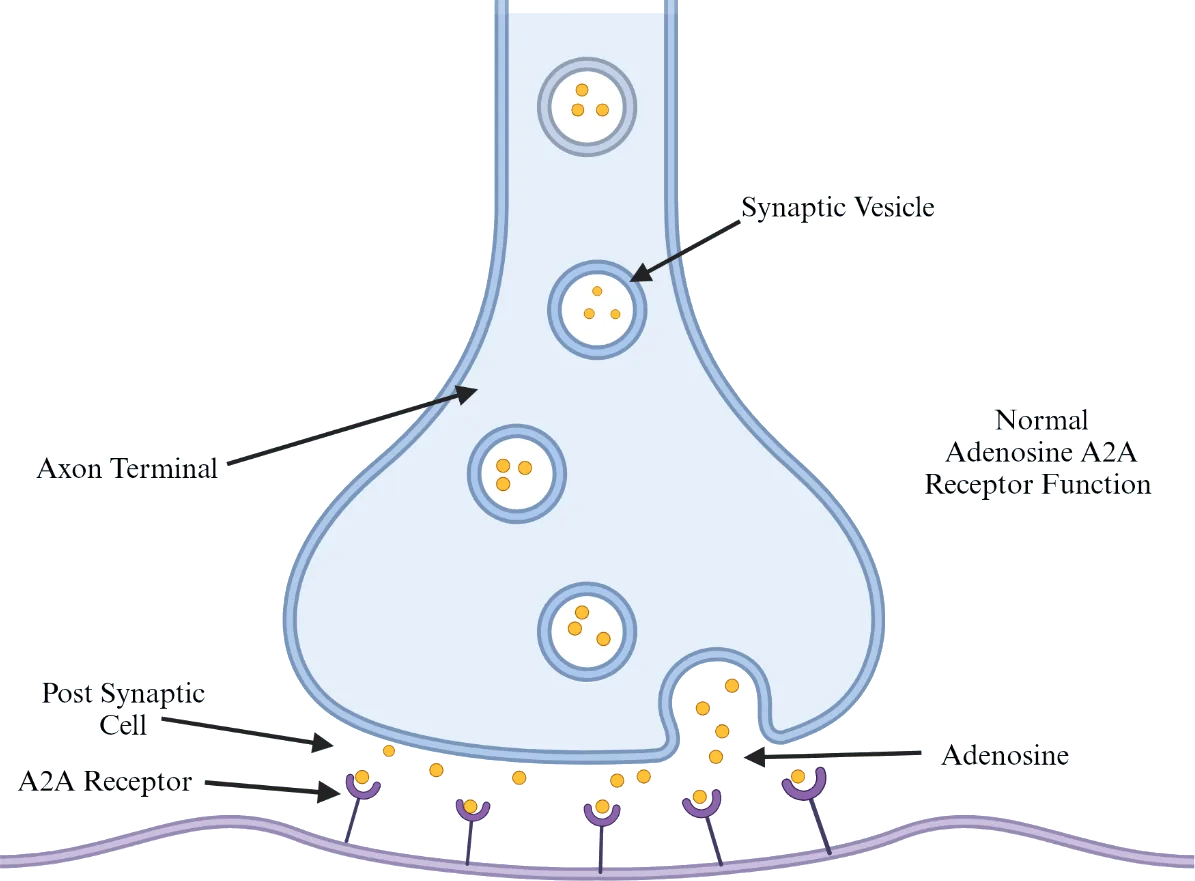
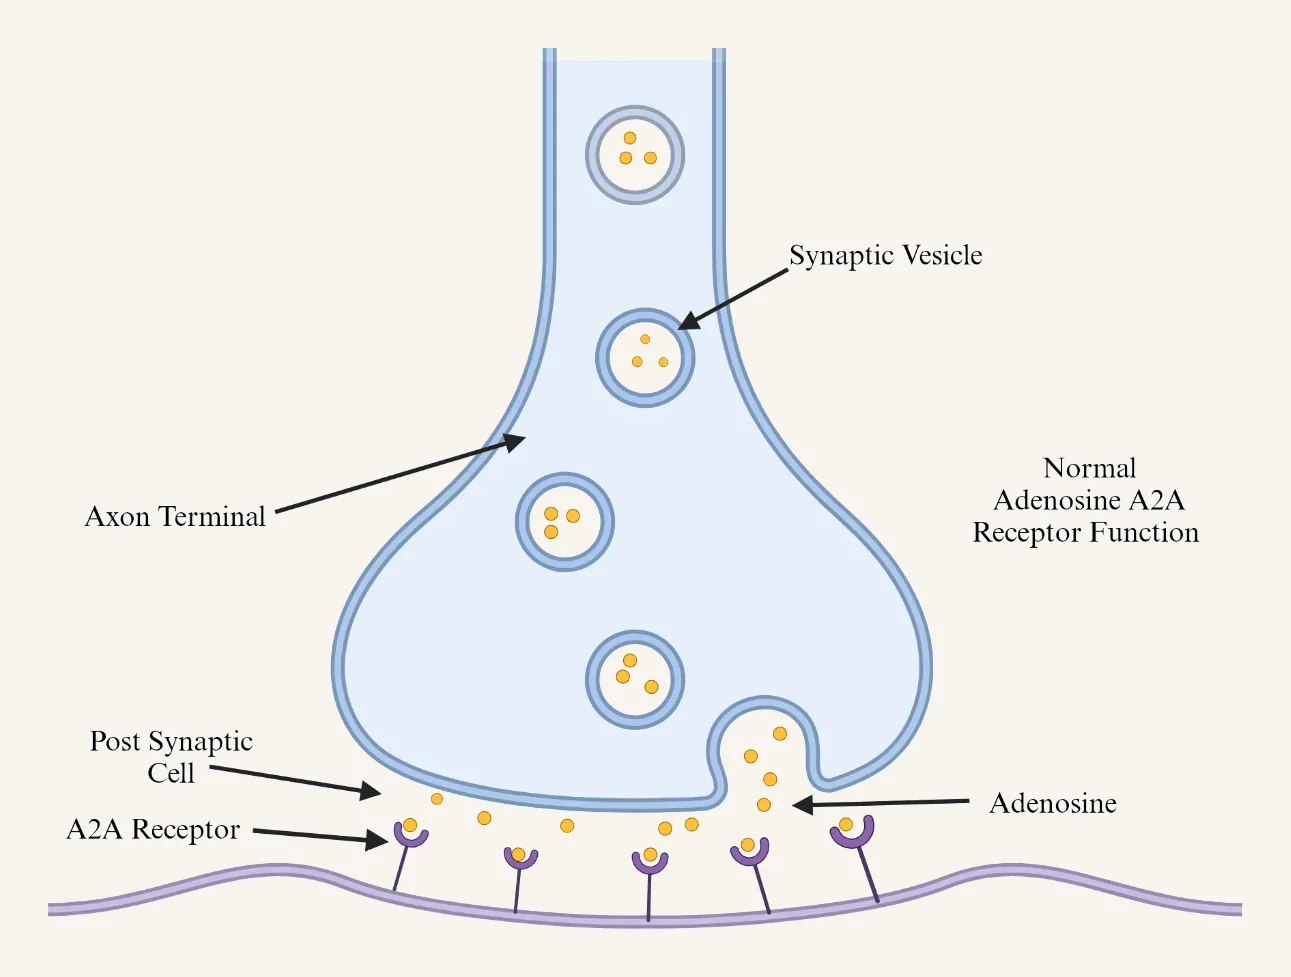
Bake a paper backing into the cut-out diagrams so their labels survive dark mode
The clean/ images are scans of printed diagrams: black labels, thin black
leader lines, engraved hatching, pale fills. Flood-filling the white
background out left them transparent, which reads well on a light page and is
unreadable on a dark one - black ink on #17140f is black on black. The same
happens in the light theme on a phone browser that force-darkens the page.

Fixed in the pixels rather than in CSS, and that is the point. Force-dark
engines darken background colours and deliberately leave image pixels alone,
so a CSS plate under the artwork gets darkened right back out; tokens.css
already records that `color-scheme: only light` does not reliably stop them.
Pixels are the one surface they will not touch.

scripts/paper-backing.mjs flattens each cut-out onto paper and extends a
proportional margin around it. The colour is exactly the light theme's --bg,
so in the light theme the figures still blend into the page as designed -
nothing about the light view changes - while in the dark theme they read as a
printed figure laid on the page.

One wrinkle: the flood-fill only reaches the background from outside, so white
regions it could not enter - the cells inside a spider web's frame, the
interior of an engraved brain - stayed pure white and sat as a bright patch on
the paper. The script remaps what is still near-white to the same tone. The
threshold is high enough to leave the pale blue/pink/orange diagram fills
alone.
[…]

Changed region(s): [[0.0, 0.0, 1.0, 1.0], [0.7431, 0.4597, 0.9598, 0.5823], [0.031, 0.521, 0.2167, 0.5516]]

diff --git a/src/styles/components.css b/src/styles/components.css
@@ -315,8 +315,12 @@ html[dir='rtl'] .side-chev.open { transform: rotate(90deg); }
 .img-block { margin: var(--space-5) 0; text-align: center; }
 .img-block img { border-radius: var(--radius); border: 1px solid var(--border); max-width: 100%; width: auto; max-height: 460px; margin: 0 auto; object-fit: contain; background: var(--bg-elev-2); }
 .img-block.wide img { max-height: 520px; }
-/* Cleaned images (transparent bg): blend into the page, no card frame. */
-.img-block.transparent img { border: none; background: transparent; padding: var(--space-3); max-height: 480px; }
+/* Cleaned images: no card frame, so in the light theme they still blend into
+   the page. They are no longer transparent — each carries its own paper backing
+   and margin in the pixels (scripts/paper-backing.mjs), which is what keeps
+   their black labels readable in the dark theme and under a force-dark browser.
+   So: no background and no padding here, or it would double the margin. */
+.img-block.transparent img { border: none; padding: 0; max-height: 480px; background: var(--figure-paper); }
 .img-legend { list-style: none; display: flex; flex-wrap: wrap; gap: 8px; justify-content: center; padding: 0; margin: var(--space-2) auto 0; max-width: 640px; }
 .img-legend li { margin: 0; }
 .img-legend-term { display: inline-block; font-size: var(--fs-xs); font-weight: 600; color: var(--text-soft); background: var(--bg-elev-2); border: 1px solid var(--border); border-radius: 999px; padding: 3px 11px; }
@@ -401,7 +405,8 @@ html[dir='rtl'] .side-chev.open { transform: rotate(90deg); }
 .spider-panel { display: flex; flex-direction: column; gap: 8px; margin: 0; }
 .spider-tag { align-self: flex-start; font-weight: 700; font-size: var(--fs-sm); padding: 3px 12px; border-radius: 999px; background: var(--bg-elev-2); color: var(--text); }
 .spider-tag.drug { background: var(--danger); color: #fff; }
-.spider-box { width: 100%; aspect-ratio: 4 / 3; background: #fff; border: 1px solid var(--border-strong); border-radius: var(--radius-sm); display: grid; place-items: center; padding: 10px; box-shadow: var(--shadow-sm); }
+/* Sits flush against the panel image, so it has to be the same paper. */
+.spider-box { width: 100%; aspect-ratio: 4 / 3; background: var(--figure-paper); border: 1px solid var(--border-strong); border-radius: var(--radius-sm); display: grid; place-items: center; padding: 10px; box-shadow: var(--shadow-sm); }
 .spider-box img { max-width: 100%; max-height: 100%; width: auto; object-fit: contain; }
 .spider-buttons { display: flex; flex-wrap: wrap; gap: 8px; margin-top: var(--space-4); justify-content: center; }
 
@@ -411,7 +416,7 @@ html[dir='rtl'] .side-chev.open { transform: rotate(90deg); }
 .net-legend li { display: inline-flex; align-items: center; gap: 6px; margin: 0; }
 .net-swatch { width: 14px; height: 14px; border-radius: 4px; display: inline-block; }
 .net-name { font-size: var(--fs-sm); font-weight: 600; }
-.net-crop-img { display: block; width: 100%; height: auto; max-height: 300px; object-fit: contain; margin: 0 auto; }
+.net-crop-img { display: block; width: 100%; height: auto; max-height: 300px; object-fit: contain; margin: 0 auto; border-radius: var(--radius-sm); }
 
 /* ============================================================
    Stolen Focus — interactive figures

diff --git a/src/data/imageDims.js b/src/data/imageDims.js
@@ -10,20 +10,20 @@ export const imageDims = {
   './images/anatomical/rem-vs-nrem.webp': [1200, 675],
   './images/characters/johann-hari.webp': [500, 625],
   './images/characters/matthew-walker.webp': [500, 500],
-  './images/clean/adenosine-1.webp': [1195, 881],
-  './images/clean/adenosine-2.webp': [1182, 859],
-  './images/clean/alzheimers.webp': [559, 369],
-  './images/clean/amygdala.webp': [1018, 1007],
-  './images/clean/beta-amyloid.webp': [1204, 935],
-  './images/clean/brain-regions.webp': [1389, 874],
-  './images/clean/glymphatic.webp': [1600, 864],
-  './images/clean/hippocampus-cortex.webp': [1600, 824],
-  './images/clean/light-pathway.webp': [967, 1363],
-  './images/clean/memory-chart.webp': [759, 918],
-  './images/clean/memory-consolidation.webp': [685, 373],
-  './images/clean/nk-cells-1.webp': [364, 388],
-  './images/clean/orexin.webp': [1600, 1454],
-  './images/clean/prefrontal.webp': [1454, 1160],
+  './images/clean/adenosine-1.webp': [1291, 977],
+  './images/clean/adenosine-2.webp': [1276, 953],
+  './images/clean/alzheimers.webp': [603, 413],
+  './images/clean/amygdala.webp': [1100, 1089],
+  './images/clean/beta-amyloid.webp': [1300, 1031],
+  './images/clean/brain-regions.webp': [1501, 986],
+  './images/clean/glymphatic.webp': [1728, 992],
+  './images/clean/hippocampus-cortex.webp': [1728, 952],
+  './images/clean/light-pathway.webp': [1077, 1473],
+  './images/clean/memory-chart.webp': [833, 992],
+  './images/clean/memory-consolidation.webp': [739, 427],
+  './images/clean/nk-cells-1.webp': [396, 420],
+  './images/clean/orexin.webp': [1728, 1582],
+  './images/clean/prefrontal.webp': [1570, 1276],
   './images/graceland-jungle-room.jpg': [800, 588],
   './images/provincetown.jpg': [800, 450],
 }

diff --git a/src/styles/tokens.css b/src/styles/tokens.css
@@ -37,6 +37,16 @@
   /* Brand (the club logo colour) — constant across themes */
   --brand: #a5855b;
   --brand-ink: #ffffff;
+
+  /* The paper the scanned figures are printed on. Constant across themes on
+     purpose: those diagrams are black ink on white, so their backing has to
+     stay light or the labels vanish. It is baked into the pixels by
+     scripts/paper-backing.mjs (a CSS colour would be force-darkened by phone
+     browsers, which leave image pixels alone) — this variable exists only for
+     the chrome that has to sit flush against them, and MUST stay equal to
+     PAPER in that script. Same value as the light theme's --bg, so in the
+     light theme the figures still blend into the page. */
+  --figure-paper: #f7f4ee;
 }
 
 /* ---- Light theme (default): warm paper ---- */

diff --git a/POLISH-PLAN.md b/POLISH-PLAN.md
@@ -98,6 +98,31 @@ Re-run the generator after adding or replacing a content image —
 
 ---
 
+**1e. Cut-out legibility on dark backgrounds.** ✅ **done (2026-07-27), user-reported.** The
+`clean/` images are scans of printed diagrams — black labels, thin black leader lines,
+engraved hatching, pale fills. Flood-filling the white background out left them transparent,
+which reads beautifully on a light page and is *unreadable* on a dark one: black ink on
+`#17140f`. The same happens in the light theme on a phone browser that force-darkens the page.
+
+Fixed by baking a **paper backing plus margin into the pixels** (`scripts/paper-backing.mjs`).
+The choice of pixels over CSS is the whole point: force-dark engines darken background
+colours and deliberately leave image pixels alone, so a CSS plate would be darkened right back
+out from under the artwork — and `tokens.css` already records that `color-scheme: only light`
+doesn't reliably stop them. The paper colour is exactly the light theme's `--bg`, so in the
+light theme the figures still blend into the page as originally designed; nothing about the
+light view changed.
+
+Two details worth keeping: the flood-fill only reaches the background from outside, so white
+regions it couldn't enter (the cells inside a spider web's frame, the interior of an engraved
+brain) stayed pure white and showed as a bright patch against the paper — the script remaps
+what is still near-white to the same tone. And dropping the alpha channel made the files
+*smaller*: 1696 kB → 1331 kB. **Images now total 3.6 MB.**
+
+The script is idempotent (it skips images that already lost their alpha), but it is the **last
+step of a pipeline** — the order is documented in its header.
+
+---
+
 ## 2. Deployment — ✅ resolved (it was already live)
 
 **The site is live at https://ruqaa.vercel.app and Vercel auto-deploys every push to `main`.**

diff --git a/CLAUDE.md b/CLAUDE.md
@@ -106,6 +106,19 @@ recharts eagerly.
   `panel()` and `rowImg()` helpers swap the extension, which is what kept the conversion from
   churning hundreds of data lines. **The covers used for `og:image` stay JPG**: several social
   scrapers won't fetch a WebP preview.
+- **The `clean/` cut-outs are no longer transparent.** They are scans of printed diagrams —
+  black labels, thin leader lines, engraved hatching — so on a dark background their text
+  disappeared. Each now carries a **paper backing and margin baked into the pixels**
+  (`scripts/paper-backing.mjs`). It had to be pixels, not CSS: phone browsers that force-dark
+  a page darken background colours and deliberately leave image pixels alone, so a CSS plate
+  gets darkened right back out from under the artwork. The colour equals the light theme's
+  `--bg`, so in the light theme they still blend into the page exactly as before. `.img-block.transparent`
+  therefore sets no padding of its own, and `--figure-paper` (theme-independent, in
+  `tokens.css`) exists only for chrome that sits flush against them, like `.spider-box`.
+- **The image pipeline has an order**, documented at the top of `paper-backing.mjs`:
+  generators → `brain-rows`/`spider-panels` → `to-webp` → `paper-backing`. `clean/brain-areas`
+  and `clean/spider-web` are *intermediates* for the row/panel splitters, not display assets;
+  `check-image-refs.mjs` correctly reports them as unreferenced once the outputs exist.
 - **`src/data/imageDims.js` is generated** by `gen-image-dims.mjs` — intrinsic sizes for
   inline content images so `ImageBlock` can emit `width`/`height` and reserve the box before
   the bytes land. Content images have genuinely different aspect ratios, so the flat
